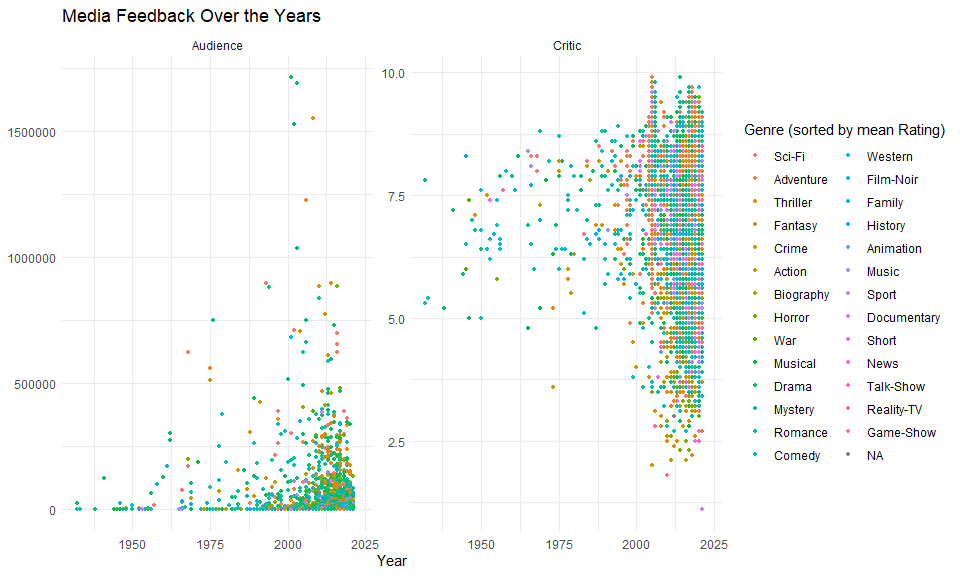
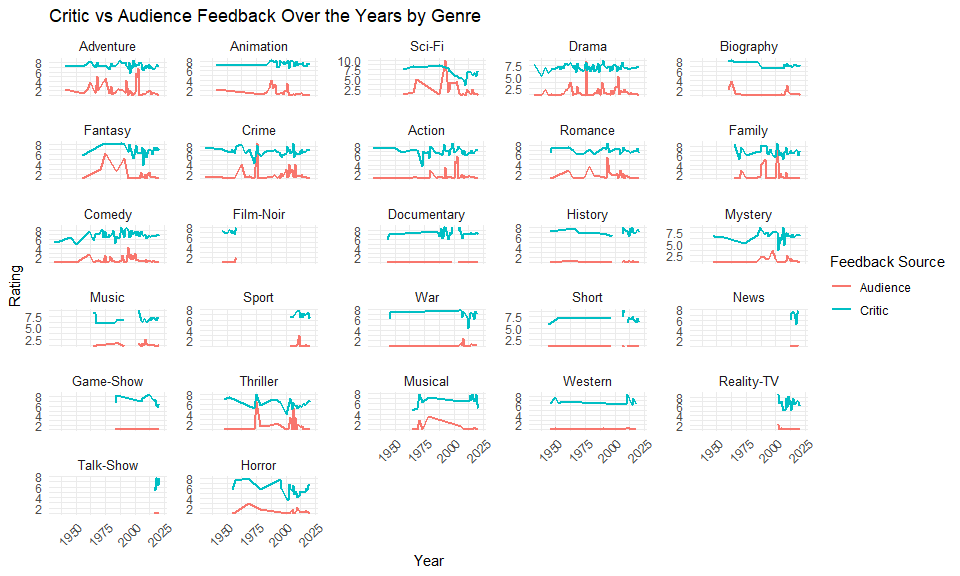
commit

diff --git a/Projects/Niclas38/Bene-Klein.md b/Projects/Niclas38/Bene-Klein.md
@@ -1,73 +1,105 @@
 # Data manipulation
 
-    df<-read.csv('movies.csv',na.strings=c("","NA")) |>
+    df<-read.csv('movies.csv',na.strings=c("","NA"),encoding="UTF-8") |>
       as.data.frame()|>
       mutate(
       
       ONE.LINE = str_remove_all(ONE.LINE, "\n"),
       GENRE = str_remove_all(GENRE, "\n"),
-      STARS = STARS |> str_remove_all("\n") |> str_remove_all(".*(Stars|Star|Director|Directors....):"),
+      STARS = STARS |> str_remove_all("\n") |> str_remove_all("(?<=Stars:).*?(?=,?\\s*Director:)"),
       GENRE = str_split(GENRE,",\\s*"[[1]]),
       STARS = str_split(STARS,",\\s*"[[1]]),
       VOTES = str_replace_all(VOTES,",",""),
       YEAR = str_remove_all(YEAR,"[a-z]"),
+      YEAR = str_remove_all(YEAR,"[A-Z]"),
+      YEAR = str_replace_all(YEAR, "\\((.*?)\\)","\\1"),
         Start = as.numeric(str_extract(YEAR, "\\d{4}")),
-        End = as.numeric(str_extract(YEAR,"^(\\d{4})(?:-(\\d{4})?)?$")),
-        End = ifelse(str_extract(YEAR, "-\\)"), 2022, End),  # If the end is missing, set it to 2022
-        #End = ifelse(is.na(End), Start, End),  # If there's no end year, use start year
-        Year_List = mapply(function(s, e) if (!is.na(s) & !is.na(e)) seq(s, e) else NA, Start, End, SIMPLIFY = FALSE)
+        End = as.numeric(str_extract(YEAR, "(?<=[–-])\\d{4}")),
+        End = case_when(
+          str_detect(YEAR, "[-–]\\s*$") ~ 2022L,  # TV show still running
+          is.na(End) ~ Start,                    # single-year entries
+          TRUE ~ End
+        ),
+      Year_List = mapply(function(s, e) if (!is.na(s) & !is.na(e)) seq(s, e) else NA, Start, End, SIMPLIFY = FALSE)
     )
-    final_table <- df %>% select(YEAR, Start, End, Year_List)
 
 # Visualization
 
-    data_expanded <- df %>%
+    long_data <- df %>%
       unnest(GENRE) %>%
       mutate(
         GENRE = trimws(GENRE),
         GENRE = as.factor(GENRE),
         VOTES = as.numeric(VOTES),
-        GENRE = fct_reorder(GENRE, RATING, .fun = mean, .desc = TRUE)  # Sort by mean RATING (descending)
-      )
-
-    long_data <- data_expanded %>%
-      pivot_longer(cols = c(RATING, VOTES), 
+        Start = as.numeric(Start)  # Convert Start to Date type if it's not already
+      ) %>%
+      # Remove rows where GENRE is NA
+      filter(!is.na(GENRE)) %>%
+      group_by(Start, GENRE) %>%
+      summarise(
+        avg_rating = mean(RATING, na.rm = TRUE),
+        avg_votes = mean(VOTES, na.rm = TRUE),
+        .groups = "drop"
+      ) %>%
+      mutate(
+        avg_votes = scales::rescale(avg_votes, to = c(1, 10))  # Normalize to 1-10 range
+      ) %>%
+      pivot_longer(cols = c(avg_rating, avg_votes), 
                    names_to = "SOURCE", 
                    values_to = "VALUE") %>%
       mutate(
-        SOURCE = recode(SOURCE, RATING = "Critic", VOTES = "Audience"),
-        GENRE = fct_reorder(GENRE, VALUE, .fun = mean, .desc = TRUE)
+        SOURCE = recode(SOURCE, avg_rating = "Critic", avg_votes = "Audience"),
+        GENRE = fct_reorder(GENRE, VALUE, .fun = mean, .desc = TRUE, .na_rm = TRUE)
       )
-    ggplot(long_data, aes(x = Start, y = VALUE, fill = GENRE, color = GENRE)) +
-      geom_point(size = 1) +
-      facet_wrap(~ SOURCE, scales = "free_y") +
+    ggplot(long_data, aes(x = Start, y = VALUE, fill = SOURCE, color = SOURCE)) +
+      geom_line(size = 1) +
+      facet_wrap(~ GENRE, scales = "free_y", ncol = 5) +
       labs(
-        title = "Media Feedback Over the Years",
+        title = "Critic vs Audience Feedback Over the Years by Genre",
         x = "Year",
-        y = NULL,
-        fill = "Genre (sorted by mean Rating)",
-        color = "Genre (sorted by mean Rating)"
+        y = "Rating",
+        fill = "Feedback Source",
+        color = "Feedback Source"
       ) +
-      theme_minimal()
+      theme_minimal() +
+      theme(
+        strip.text = element_text(size = 10),
+        axis.text.x = element_text(angle = 45, hjust = 1),
+        panel.spacing = unit(1, "lines")
+      )
 
 ![](Bene-Klein_files/figure-markdown_strict/Feedback-1.png)
 
-    df %>%
+    discrepancy_2022 <- df %>%
+      unnest(GENRE) %>%
       mutate(
-        VOTES = as.numeric(VOTES)  # Convert VOTES to numeric, ensuring it's numeric
+        GENRE = trimws(GENRE),
+        GENRE = as.factor(GENRE),
+        VOTES = as.numeric(VOTES),
+        End = as.numeric(End)
       ) %>%
-      arrange(desc(VOTES)) %>%               # Sort by VOTES in descending order
+      filter(!is.na(GENRE), End == 2022) %>%
+      group_by(GENRE) %>%
+      summarise(
+        avg_rating = mean(RATING, na.rm = TRUE),
+        avg_votes = mean(VOTES, na.rm = TRUE),
+        .groups = "drop"
+      ) %>%
       mutate(
-        max_votes = VOTES[1],                 # Get the max VOTES value
-        discr = ifelse(is.na(RATING) | is.na(VOTES), NA, RATING - (VOTES * 10 / max_votes))  # Calculate discrepancy
-      ) %>%
-      ggplot(aes(x = discr)) +
-      geom_histogram(binwidth = 0.1, fill = "steelblue", color = "black", alpha = 0.7) +
+        avg_votes = scales::rescale(avg_votes, to = c(1, 10)),
+        discrepancy = avg_rating - avg_votes,
+        GENRE = fct_reorder(GENRE, discrepancy)
+      )%>%
+      drop_na()
+    ggplot(discrepancy_2022, aes(x = GENRE, y = discrepancy, fill = discrepancy>0)) +
+      geom_col() +
+      coord_flip() +
       labs(
-        title = "Discrepancy of Ratings",
-        x = "IMDb rating minus normalized audience votes (<- Audience only, Critic only ->)",
-        y = "count"
+        title = "Discrepancy Between Critic and Audience Ratings in 2022 by Genre",
+        x = "Genre",
+        y = "Discrepancy (Critic - Audience)"
       ) +
+      scale_fill_manual(values = c("TRUE" = "steelblue", "FALSE" = "tomato"), guide = "none") +
       theme_minimal()
 
 ![](Bene-Klein_files/figure-markdown_strict/rating%20discrepancy%20-1.png)
@@ -75,16 +107,28 @@
     data_expanded_stars <- df %>%
       unnest(STARS) %>%
       group_by(STARS) %>%
-      summarise(mean_RATING = mean(RATING, na.rm = TRUE)) %>%
+      summarise(
+        mean_RATING = mean(RATING, na.rm = TRUE),  # Average rating
+        count = n(),  # Count the number of occurrences of each star
+        .groups = "drop"
+      ) %>%
       arrange(desc(mean_RATING)) %>%  # Sorting by rating
-      head(50)   # Take the first 50 stars
-
+      filter(count>=10)%>%
+      head(50)     # Take the first 50 stars
+    top_right <- data_expanded_stars %>%
+      arrange(desc(mean_RATING + scale(count))) %>% 
+      head(5)
     # Plot the data
-    ggplot(data_expanded_stars, aes(x = reorder(STARS, mean_RATING), y = mean_RATING)) +
-      geom_bar(stat = "identity", fill = "steelblue") +
-      coord_flip() +  # Flip to make names readable
-      labs(title = "Top 50 Stars by Mean Rating",
-           x = "Star Name",
+    ggplot(data_expanded_stars, aes(x = count, y = mean_RATING)) +
+      geom_point(point=1) +
+        ggrepel::geom_text_repel(
+        data = top_right,
+        aes(label = STARS),
+        size = 3.5,
+        max.overlaps = Inf
+      ) +
+      labs(title = "Top 100 Stars by Mean Rating with atleast 10 movies",
+           x = "Amount of Movies",
            y = "Mean Rating") +
       theme_minimal()
 
